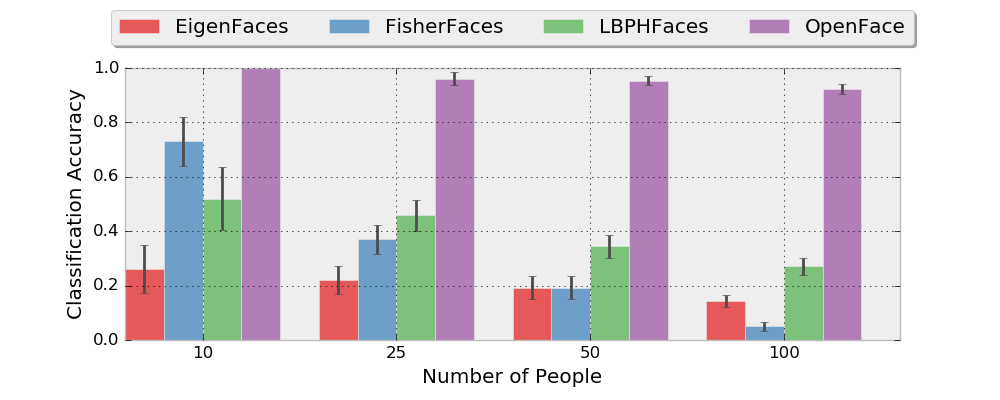
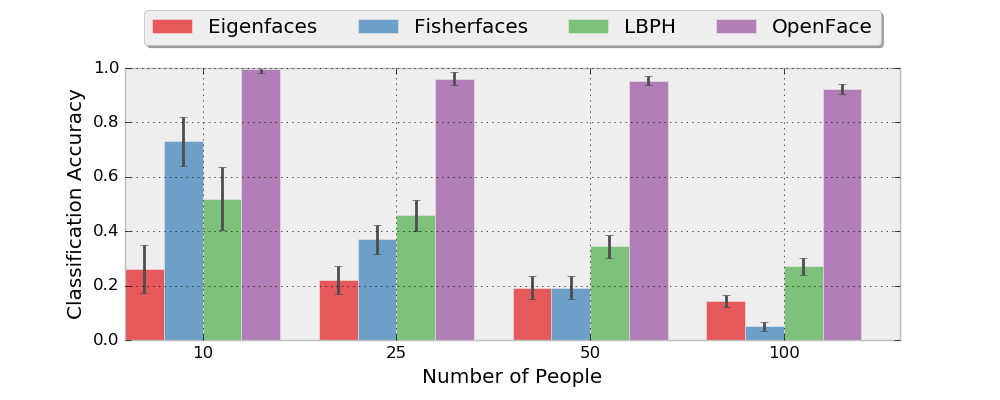
lfw-classification: Just use a linear SVM instead of grid search.

Changed region(s): [[0.093, 0.03, 0.93, 0.12]]

diff --git a/evaluation/lfw-classification.py b/evaluation/lfw-classification.py
@@ -80,12 +80,12 @@ def main():
     lfwPplCache = os.path.join(args.workDir, 'lfwPpl.pkl')
     lfwPpl = cacheToFile(lfwPplCache)(getLfwPplSorted)(args.lfwAligned)
 
-    print("EigenFaces Experiment")
+    print("Eigenfaces Experiment")
     cls = cv2.createEigenFaceRecognizer()
     cache = os.path.join(args.workDir, 'eigenFacesExp.pkl')
     eigenFacesDf = cacheToFile(cache)(opencvExp)(lfwPpl, cls)
 
-    print("FisherFaces Experiment")
+    print("Fisherfaces Experiment")
     cls = cv2.createFisherFaceRecognizer()
     cache = os.path.join(args.workDir, 'fisherFacesExp.pkl')
     fishFacesDf = cacheToFile(cache)(opencvExp)(lfwPpl, cls)
@@ -97,14 +97,7 @@ def main():
 
     print("OpenFace CPU/SVM Experiment")
     net = openface.TorchNeuralNet(args.networkModel, 96, cuda=False)
-    svmParamGrid = [
-        {'C': [1, 10, 100, 1000],
-            'kernel': ['linear']},
-        {'C': [1, 10, 100, 1000],
-            'gamma': [0.001, 0.0001],
-            'kernel': ['rbf']}
-    ]
-    cls = GridSearchCV(SVC(), svmParamGrid, cv=5)
+    cls = SVC(kernel='linear', C=1)
     cache = os.path.join(args.workDir, 'openface.cpu.svm.pkl')
     openfaceCPUsvmDf = cacheToFile(cache)(openfaceExp)(lfwPpl, net, cls)
 
@@ -281,13 +274,13 @@ def plotAccuracy(workDir, eigenFacesDf, fishFacesDf, lbphFacesDf,
     fig = plt.figure(figsize=(10,4))
     ax = fig.add_subplot(111)
     plt.bar(indices, eigenFacesDf['accsMean'], barWidth,
-            yerr=eigenFacesDf['accsStd'], label='EigenFaces',
+            yerr=eigenFacesDf['accsStd'], label='Eigenfaces',
             color=colors[0], ecolor='0.3', alpha=alpha)
     plt.bar(indices+barWidth, fishFacesDf['accsMean'], barWidth,
-            yerr=fishFacesDf['accsStd'], label='FisherFaces',
+            yerr=fishFacesDf['accsStd'], label='Fisherfaces',
             color=colors[1], ecolor='0.3', alpha=alpha)
     plt.bar(indices+2*barWidth, lbphFacesDf['accsMean'], barWidth,
-            yerr=lbphFacesDf['accsStd'], label='LBPHFaces',
+            yerr=lbphFacesDf['accsStd'], label='LBPH',
             color=colors[2], ecolor='0.3', alpha=alpha)
     plt.bar(indices+3*barWidth, openfaceCPUsvmDf['accsMean'], barWidth,
             yerr=openfaceCPUsvmDf['accsStd'], label='OpenFace',
@@ -319,13 +312,13 @@ def plotTrainingTime(workDir, eigenFacesDf, fishFacesDf, lbphFacesDf,
     fig = plt.figure(figsize=(10,4))
     ax = fig.add_subplot(111)
     plt.bar(indices, eigenFacesDf['trainTimeSecMean'], barWidth,
-            yerr=eigenFacesDf['trainTimeSecStd'], label='EigenFaces',
+            yerr=eigenFacesDf['trainTimeSecStd'], label='Eigenfaces',
             color=colors[0], ecolor='0.3', alpha=alpha)
     plt.bar(indices+barWidth, fishFacesDf['trainTimeSecMean'], barWidth,
-            yerr=fishFacesDf['trainTimeSecStd'], label='FisherFaces',
+            yerr=fishFacesDf['trainTimeSecStd'], label='Fisherfaces',
             color=colors[1], ecolor='0.3', alpha=alpha)
     plt.bar(indices+2*barWidth, lbphFacesDf['trainTimeSecMean'], barWidth,
-            yerr=lbphFacesDf['trainTimeSecStd'], label='LBPHFaces',
+            yerr=lbphFacesDf['trainTimeSecStd'], label='LBPH',
             color=colors[2], ecolor='0.3', alpha=alpha)
     plt.bar(indices+3*barWidth, openfaceCPUsvmDf['trainTimeSecMean'], barWidth,
             yerr=openfaceCPUsvmDf['trainTimeSecStd'],
@@ -360,13 +353,13 @@ def plotPredictionTime(workDir, eigenFacesDf, fishFacesDf, lbphFacesDf,
     fig = plt.figure(figsize=(10,4))
     ax = fig.add_subplot(111)
     plt.bar(indices, eigenFacesDf['predictTimeSecMean'], barWidth,
-            yerr=eigenFacesDf['predictTimeSecStd'], label='EigenFaces',
+            yerr=eigenFacesDf['predictTimeSecStd'], label='Eigenfaces',
             color=colors[0], ecolor='0.3', alpha=alpha)
     plt.bar(indices+barWidth, fishFacesDf['predictTimeSecMean'], barWidth,
-            yerr=fishFacesDf['predictTimeSecStd'], label='FisherFaces',
+            yerr=fishFacesDf['predictTimeSecStd'], label='Fisherfaces',
             color=colors[1], ecolor='0.3', alpha=alpha)
     plt.bar(indices+2*barWidth, lbphFacesDf['predictTimeSecMean'], barWidth,
-            yerr=lbphFacesDf['predictTimeSecStd'], label='LBPHFaces',
+            yerr=lbphFacesDf['predictTimeSecStd'], label='LBPH',
             color=colors[2], ecolor='0.3', alpha=alpha)
     plt.bar(indices+3*barWidth, openfaceCPUsvmDf['predictTimeSecMean'], barWidth,
             yerr=openfaceCPUsvmDf['predictTimeSecStd'],
